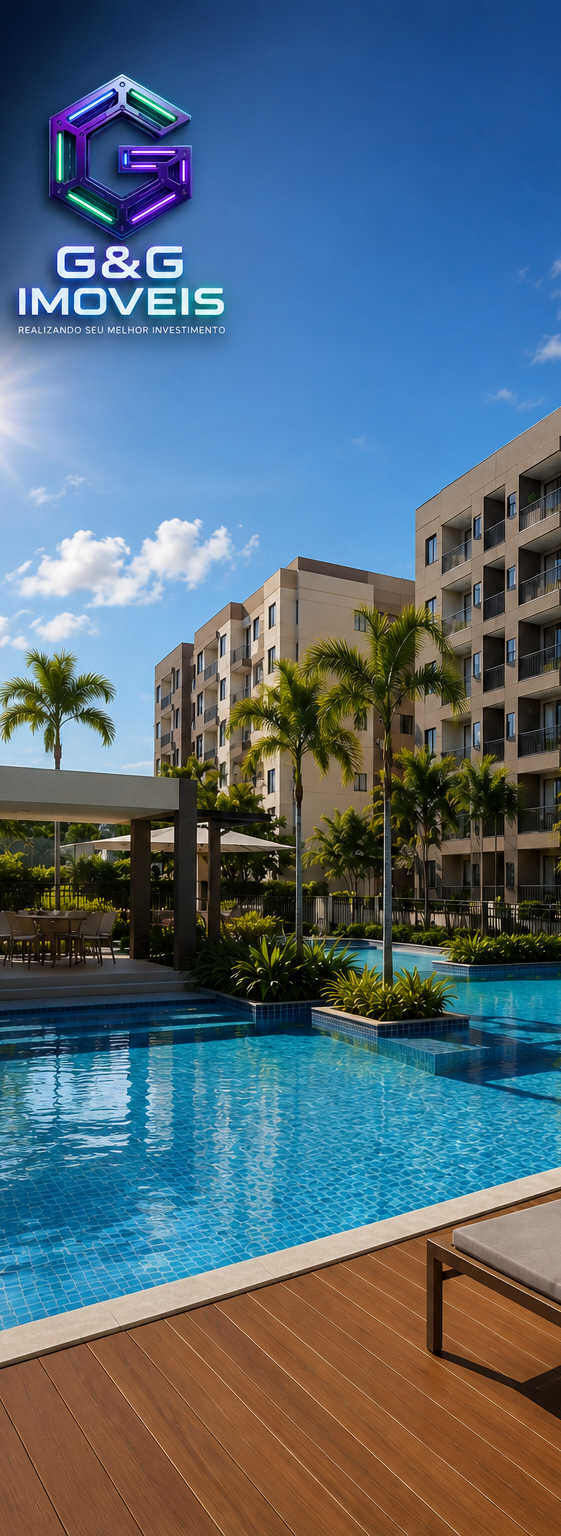
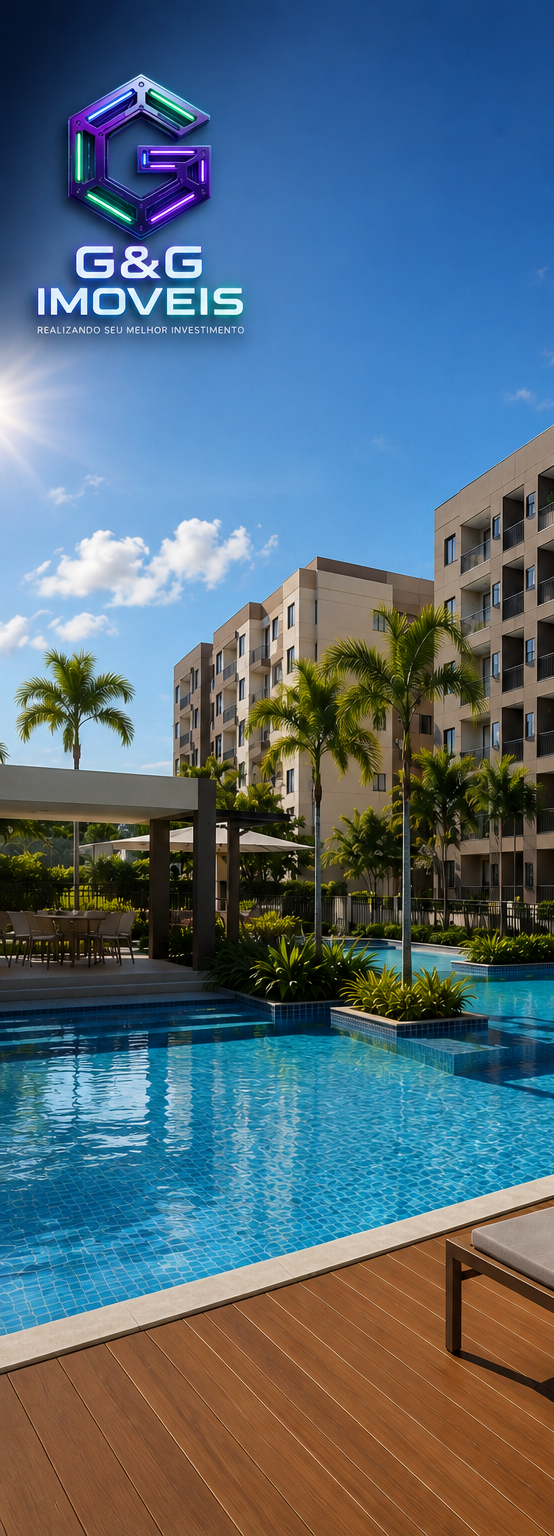
Add files via upload

diff --git a/app.py b/app.py
@@ -91,30 +91,49 @@ st.set_page_config(
 )
 
 sidebar_bg_base64 = get_image_base64(CAMINHO_SIDEBAR)
-exibir_sidebar = st.session_state["etapa_fluxo"] not in ["login", "cadastro_inicial"]
+eh_tela_inicial = st.session_state["etapa_fluxo"] in ["login", "cadastro_inicial"]
 
-# Estilização CSS em Tema Escuro com ALTO CONTRASTE para legibilidade total
+# Definições de cores dinâmicas baseadas na tela atual
+if eh_tela_inicial:
+    bg_app = "#0E1726"
+    text_color = "#FFFFFF"
+    card_bg = "#1A2638"
+    card_border = "1px solid #2D3748"
+    sub_color = "#A0AEC0"
+    btn_bg = "#2B6CB0"
+    btn_hover = "#3182CE"
+else:
+    # Tema claro / veraneio para o Painel Geral e Simulação
+    bg_app = "#F8F9FA"
+    text_color = "#0E1D2F"
+    card_bg = "#FFFFFF"
+    card_border = "none"
+    sub_color = "#556070"
+    btn_bg = "#0E1D2F"
+    btn_hover = "#1A2E47"
+
+# Estilização CSS Dinâmica
 st.markdown(
     f"""
     <style>
-        /* Fundo Geral Escuro */
+        /* Fundo Principal */
         .stApp {{
-            background-color: #0E1726 !important;
-            color: #FFFFFF !important;
+            background-color: {bg_app} !important;
+            color: {text_color} !important;
         }}
         
-        /* Títulos, Rótulos e Textos em Branco Claro */
-        h1, h2, h3, h4, h5, h6, p, span, label, div {{
-            color: #FFFFFF !important;
+        /* Títulos, Rótulos e Textos */
+        h1, h2, h3, h4, h5, h6, p, span, label {{
+            color: {text_color} !important;
         }}
         
         .subtitulo-cinza {{
-            color: #A0AEC0 !important;
+            color: {sub_color} !important;
         }}
 
-        /* Esconde a barra lateral nas telas de Login e Cadastro */
+        /* Oculta ou Exibe a Barra Lateral */
         [data-testid="stSidebar"] {{
-            display: {"block" if exibir_sidebar else "none"} !important;
+            display: {"none" if eh_tela_inicial else "block"} !important;
             background-image: url("{sidebar_bg_base64}");
             background-size: cover;
             background-position: center;
@@ -123,62 +142,49 @@ st.markdown(
             max-width: 280px !important;
         }}
         
-        /* Oculta botão de recolher sidebar */
         [data-testid="stSidebarCollapseButton"] {{
             display: none !important;
         }}
 
         /* Estilização dos Blocos/Cartões */
         div[data-testid="stColumn"] > div {{
-            background-color: #1A2638 !important;
+            background-color: {card_bg} !important;
             padding: 20px;
             border-radius: 12px;
-            border: 1px solid #2D3748;
+            border: {card_border};
+            box-shadow: {"0px 4px 12px rgba(0, 0, 0, 0.05)" if not eh_tela_inicial else "none"};
         }}
 
-        /* Ajuste de Caixas de Texto (Inputs) */
+        /* Entradas de texto */
         input {{
-            background-color: #263345 !important;
-            color: #FFFFFF !important;
-            border: 1px solid #4A5568 !important;
+            background-color: {"#263345" if eh_tela_inicial else "#FFFFFF"} !important;
+            color: {text_color} !important;
+            border: 1px solid {"#4A5568" if eh_tela_inicial else "#CED4DA"} !important;
             border-radius: 6px !important;
         }}
         
         input::placeholder {{
-            color: #A0AEC0 !important;
+            color: {sub_color} !important;
         }}
 
-        /* Botões com Contraste Perfeito */
-        .stButton>button {{
-            background-color: #2B6CB0 !important;
+        /* Botões */
+        .stButton>button, button[data-testid="stFormSubmitButton"] {{
+            background-color: {btn_bg} !important;
             color: #FFFFFF !important;
             border-radius: 8px !important;
             border: none !important;
             font-weight: 600 !important;
         }}
         
-        .stButton>button:hover {{
-            background-color: #3182CE !important;
-        }}
-        
-        /* Ajuste de Botões dentro de Formulários */
-        button[data-testid="stFormSubmitButton"] {{
-            background-color: #2B6CB0 !important;
-            color: #FFFFFF !important;
-            border-radius: 8px !important;
-            border: none !important;
-            font-weight: 600 !important;
-        }}
-        
-        button[data-testid="stFormSubmitButton"]:hover {{
-            background-color: #3182CE !important;
+        .stButton>button:hover, button[data-testid="stFormSubmitButton"]:hover {{
+            background-color: {btn_hover} !important;
         }}
     </style>
     """,
     unsafe_allow_html=True,
 )
 
-if exibir_sidebar:
+if not eh_tela_inicial:
     with st.sidebar:
         st.empty()
 
@@ -309,7 +315,7 @@ elif st.session_state["etapa_fluxo"] == "painel_geral":
             st.image(img_bosque, use_container_width=True)
         st.markdown("<h4>Residencial Bosque Imperial</h4>", unsafe_allow_html=True)
         st.markdown("<p class='subtitulo-cinza'><i>Conforto, segurança e área de lazer completa para a família.</i></p>", unsafe_allow_html=True)
-        st.markdown("<p style='color: #F6AD55 !important; font-weight: bold;'>Valores a partir de R$ 350 mil</p>", unsafe_allow_html=True)
+        st.markdown("<p style='color: #C27803 !important; font-weight: bold;'>Valores a partir de R$ 350 mil</p>", unsafe_allow_html=True)
         if st.button("Simule sua entrada", key="btn_bosque", use_container_width=True):
             st.session_state["imovel_selecionado"] = "Residencial Bosque Imperial - R$ 350.000,00"
             st.session_state["etapa_fluxo"] = "passo1_cliente"
@@ -321,7 +327,7 @@ elif st.session_state["etapa_fluxo"] == "painel_geral":
             st.image(img_palmeiras, use_container_width=True)
         st.markdown("<h4>Condomínio Jardim das Palmeiras</h4>", unsafe_allow_html=True)
         st.markdown("<p class='subtitulo-cinza'><i>O lugar ideal para viver seus melhores momentos ao ar livre.</i></p>", unsafe_allow_html=True)
-        st.markdown("<p style='color: #F6AD55 !important; font-weight: bold;'>Valores a partir de R$ 220 mil</p>", unsafe_allow_html=True)
+        st.markdown("<p style='color: #C27803 !important; font-weight: bold;'>Valores a partir de R$ 220 mil</p>", unsafe_allow_html=True)
         if st.button("Simule sua entrada", key="btn_palmeiras", use_container_width=True):
             st.session_state["imovel_selecionado"] = "Condomínio Jardim das Palmeiras - R$ 220.000,00"
             st.session_state["etapa_fluxo"] = "passo1_cliente"
@@ -333,7 +339,7 @@ elif st.session_state["etapa_fluxo"] == "painel_geral":
             st.image(img_vista, use_container_width=True)
         st.markdown("<h4>Residencial Vista Verde</h4>", unsafe_allow_html=True)
         st.markdown("<p class='subtitulo-cinza'><i>Seu novo lar cercado de tranquilidade e natureza.</i></p>", unsafe_allow_html=True)
-        st.markdown("<p style='color: #F6AD55 !important; font-weight: bold;'>Valores a partir de R$ 185 mil</p>", unsafe_allow_html=True)
+        st.markdown("<p style='color: #C27803 !important; font-weight: bold;'>Valores a partir de R$ 185 mil</p>", unsafe_allow_html=True)
         if st.button("Simule sua entrada", key="btn_vista", use_container_width=True):
             st.session_state["imovel_selecionado"] = "Residencial Vista Verde - R$ 185.000,00"
             st.session_state["etapa_fluxo"] = "passo1_cliente"
@@ -492,4 +498,5 @@ elif st.session_state["etapa_fluxo"] == "passo3_simulacao":
         st.session_state["etapa_fluxo"] = "painel_geral"
         st.rerun()
 
+        
         
